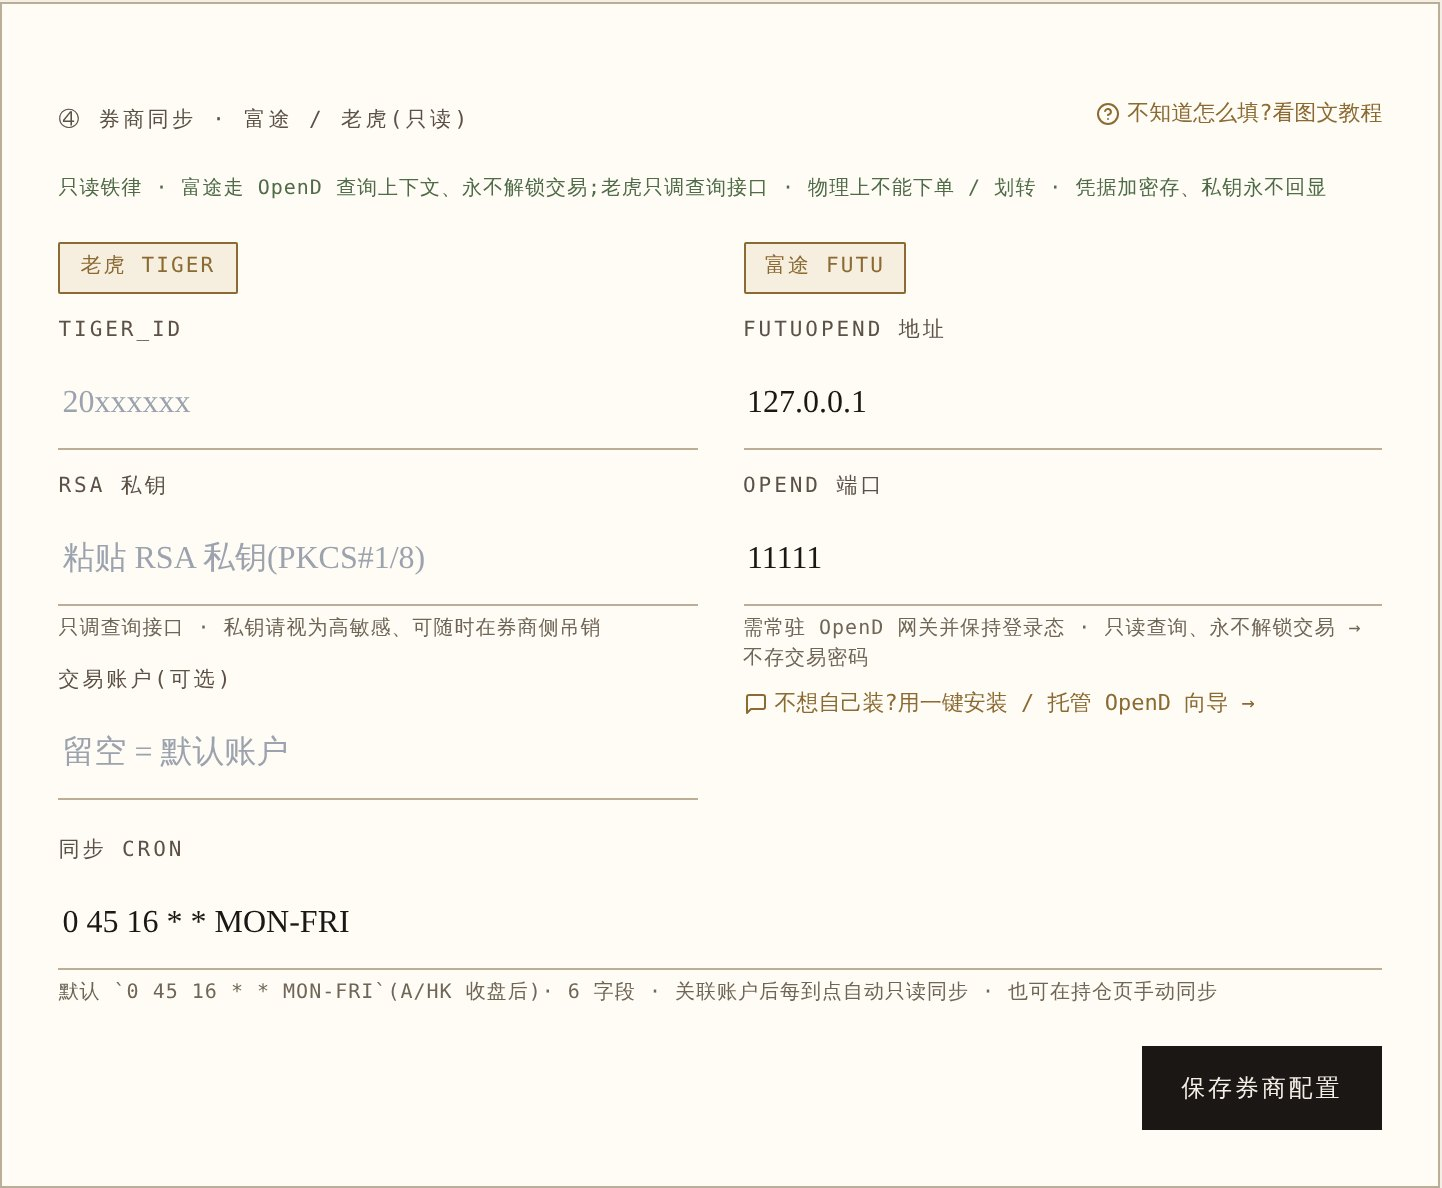
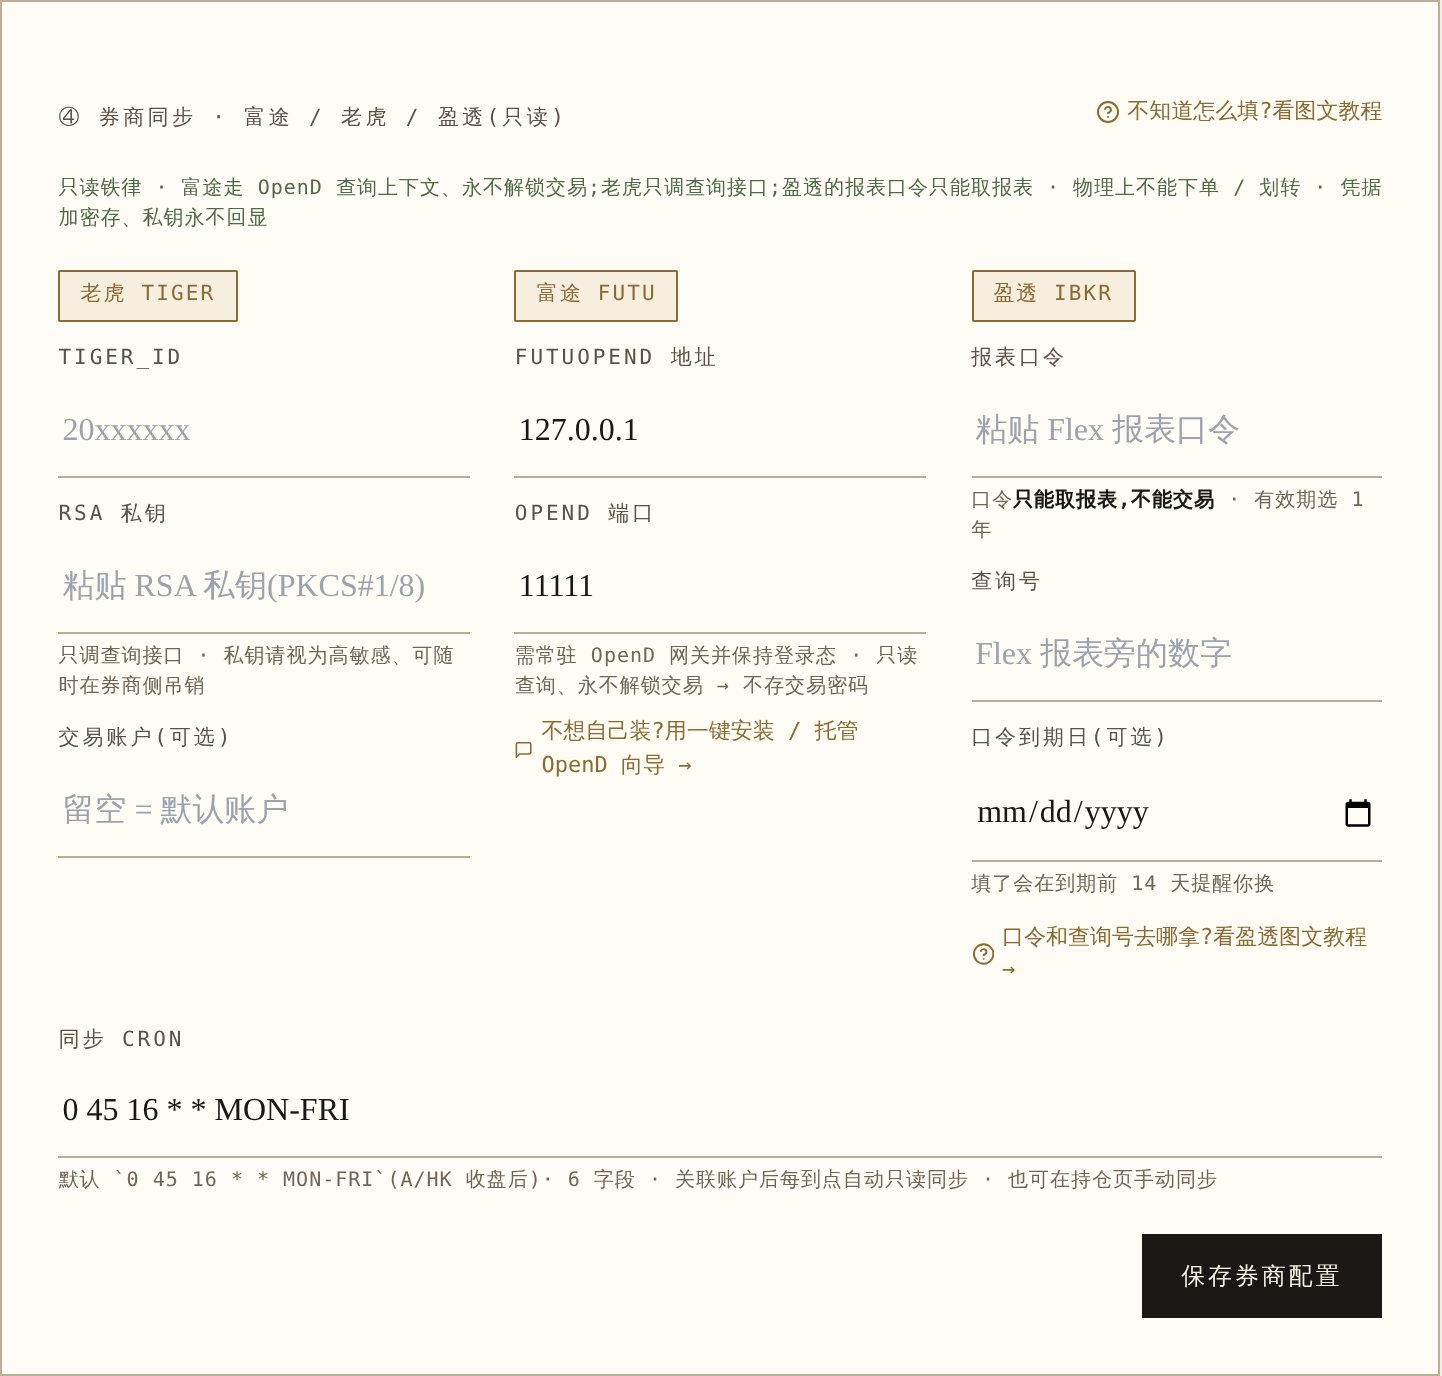
feat(v1.26) · 盈透的接入和界面与富途 / 老虎对齐(维护者 2026-09-25)
维护者:「IBKR 的接入和界面都应该和富途 / 老虎类似」。对照后改:
· 管理页:三家一家一列(药丸标题 + 竖排字段 + 一行说明 + 一条指路链接),撤掉只有盈透才有的
  折叠「在 IBKR 后台怎么配」—— 怎么拿口令只写在图文教程(链接直达 /help/broker-sync#ibkr)
· 只读铁律那一行、账户列表「券商」按钮提示、新建账户向导、填报页券商入口提示、手册 A2 正文与目录卡、
  平台下拉候选:凡是列举券商的地方都补上「盈透」
· 手册 A2 截图重拍(三家并排)
· 有意保留的不同写进 PRD §14:IBKR 账户是下拉(报表告诉我们有哪些账户),多一个口令到期日(一年一到期)

双端渲染:PC 三列同尺寸 206×359;手机竖排无横向溢出;指路链接落到教程盈透一节。

diff --git a/src/main/resources/templates/admin/integrations.html b/src/main/resources/templates/admin/integrations.html
@@ -119,7 +119,7 @@
       </div>
     </form>
 
-    <!-- ⑥ 券商只读同步 · v0.15 · 富途 / 老虎 -->
+    <!-- ⑥ 券商只读同步 · v0.15 · 富途 / 老虎 · v1.26 盈透 IBKR -->
     <form id="broker" th:action="@{/admin/integrations/broker}" method="post" class="bracket-card max-w-3xl space-y-5" style="scroll-margin-top:80px">
       <input type="hidden" th:name="${_csrf.parameterName}" th:value="${_csrf.token}"/>
       <div class="flex items-baseline justify-between">
@@ -128,10 +128,12 @@
           <svg width="12" height="12" viewBox="0 0 24 24" fill="none" stroke="currentColor" stroke-width="2" stroke-linecap="round" stroke-linejoin="round" aria-hidden="true"><circle cx="12" cy="12" r="10"/><path d="M9.09 9a3 3 0 0 1 5.83 1c0 2-3 3-3 3"/><line x1="12" y1="17" x2="12.01" y2="17"/></svg>不知道怎么填?看图文教程</a>
       </div>
       <p class="font-mono text-[10px] text-ink-subtle tracking-wider" style="color:var(--forest)">
-        只读铁律 · 富途走 OpenD 查询上下文、永不解锁交易;老虎只调查询接口 · 物理上不能下单 / 划转 · 凭据加密存、私钥永不回显
+        只读铁律 · 富途走 OpenD 查询上下文、永不解锁交易;老虎只调查询接口;盈透的报表口令只能取报表 · 物理上不能下单 / 划转 · 凭据加密存、私钥永不回显
       </p>
 
-      <div class="grid grid-cols-1 md:grid-cols-2 gap-6">
+      <!-- v1.26 · 三家同一种排法(维护者 2026-09-25:「IBKR 的接入和界面都应该和富途 / 老虎类似」):
+           一家一列,药丸标题 + 竖排字段 + 一行说明 + 一条指路链接;怎么拿凭据都在图文教程里,不在这里另起一套 -->
+      <div class="grid grid-cols-1 md:grid-cols-3 gap-6">
         <!-- 老虎 -->
         <div class="space-y-3">
           <div class="pill" style="background:rgba(180,138,58,.12);color:var(--brass-deep);border-color:var(--brass-deep)">老虎 Tiger</div>
@@ -165,42 +167,27 @@
             <svg width="12" height="12" viewBox="0 0 24 24" fill="none" stroke="currentColor" stroke-width="2" stroke-linecap="round" stroke-linejoin="round" aria-hidden="true"><path d="M21 15a2 2 0 0 1-2 2H7l-4 4V5a2 2 0 0 1 2-2h14a2 2 0 0 1 2 2z"/></svg>不想自己装?用一键安装 / 托管 OpenD 向导 →</a>
           </div>
         </div>
-      </div>
-
-      <!-- v1.26 · 盈透 IBKR · Flex 报表口令(issue #24)-->
-      <div class="space-y-3 border-t border-rule-soft pt-5">
-        <div class="flex items-baseline gap-3 flex-wrap">
+        <!-- 盈透 IBKR · v1.26 · issue #24 -->
+        <div class="space-y-3">
           <div class="pill" style="background:rgba(180,138,58,.12);color:var(--brass-deep);border-color:var(--brass-deep)">盈透 IBKR</div>
-          <span class="font-mono text-[10px] text-ink-subtle">Flex 报表 · 免网关 · 口令只能取报表,做不了交易</span>
-        </div>
-        <div>
-          <label class="field-label">报表口令</label>
-          <input class="field-input" type="password" name="ibkrToken" autocomplete="new-password"
-                 th:placeholder="${ibkrTokenConfigured} ? '已配置 ' + ${ibkrTokenMasked} + ' · 留空不修改' : '粘贴在 IBKR 后台生成的报表口令'"/>
-          <p class="font-mono text-[10px] text-ink-subtle mt-1 tracking-wider">它<b class="text-ink">只能取报表,不能交易</b> · 有效期请选 1 年 · 页面不回显</p>
-        </div>
-        <div class="grid grid-cols-1 md:grid-cols-2 gap-4">
+          <div>
+            <label class="field-label">报表口令</label>
+            <input class="field-input" type="password" name="ibkrToken" autocomplete="new-password"
+                   th:placeholder="${ibkrTokenConfigured} ? '已配置 ' + ${ibkrTokenMasked} + ' · 留空不修改' : '粘贴 Flex 报表口令'"/>
+            <p class="font-mono text-[10px] text-ink-subtle mt-1 tracking-wider">口令<b class="text-ink">只能取报表,不能交易</b> · 有效期选 1 年</p>
+          </div>
           <div>
             <label class="field-label">查询号</label>
-            <input class="field-input" name="ibkrQuery" th:value="${ibkrQuery}" inputmode="numeric" placeholder="如 1045872"/>
-            <p class="font-mono text-[10px] text-ink-subtle mt-1 tracking-wider">你在 IBKR 后台建的那份 Flex 报表旁边的数字</p>
+            <input class="field-input" name="ibkrQuery" th:value="${ibkrQuery}" inputmode="numeric" placeholder="Flex 报表旁的数字"/>
           </div>
           <div>
             <label class="field-label">口令到期日(可选)</label>
             <input class="field-input" type="date" name="ibkrExpires" th:value="${ibkrExpires}"/>
-            <p class="font-mono text-[10px] text-ink-subtle mt-1 tracking-wider">IBKR 不告诉我们口令哪天过期 · 填了才能在到期前 14 天提醒你换</p>
+            <p class="font-mono text-[10px] text-ink-subtle mt-1 tracking-wider">填了会在到期前 14 天提醒你换</p>
           </div>
+          <a th:href="@{/help/broker-sync} + '#ibkr'" class="inline-flex items-center gap-1 font-mono text-[11px] text-brass-deep underline hover:text-ink no-underline">
+            <svg width="12" height="12" viewBox="0 0 24 24" fill="none" stroke="currentColor" stroke-width="2" stroke-linecap="round" stroke-linejoin="round" aria-hidden="true"><circle cx="12" cy="12" r="10"/><path d="M9.09 9a3 3 0 0 1 5.83 1c0 2-3 3-3 3"/><line x1="12" y1="17" x2="12.01" y2="17"/></svg>口令和查询号去哪拿?看盈透图文教程 →</a>
         </div>
-        <details class="text-xs text-ink-soft">
-          <summary class="cursor-pointer font-mono text-[11px] text-brass-deep">在 IBKR 后台怎么配(约 10 分钟 · 一次)</summary>
-          <ol class="list-decimal pl-5 mt-2 space-y-1.5 leading-relaxed">
-            <li>登录 IBKR 网页后台,打开 <b class="font-mono">Performance &amp; Reports → Flex Queries</b>。</li>
-            <li>在 <b>Activity Flex Query</b> 那一栏点「+」新建:勾 <b class="font-mono">Open Positions</b> 和 <b class="font-mono">Cash Report</b> 两栏,格式选 <b class="font-mono">XML</b>,时段选 <b class="font-mono">Last Business Day</b>,保存。它旁边的数字就是<b>查询号</b>。</li>
-            <li>点 <b class="font-mono">Flex Web Service Configuration</b>(齿轮),勾选启用。</li>
-            <li>点「Generate New Token」:<b>有效期选 1 年</b>(默认只有 6 小时)。知道本服务器公网 IP 的话可以填进「Valid For IP Address」,口令就只能从这台服务器用。<span class="text-ink-subtle">重新生成会让旧口令立刻失效。</span></li>
-            <li>把口令和查询号粘到上面,保存,再点下方「测试盈透 IBKR 连接」。</li>
-          </ol>
-        </details>
       </div>
 
       <div>

diff --git a/src/main/resources/templates/help/how-to-use.html b/src/main/resources/templates/help/how-to-use.html
@@ -290,7 +290,7 @@
     <a class="toc-card" href="#a2">
       <span class="no">A2</span> <span class="badge-opt">选修</span>
       <span class="tt">券商自动同步</span>
-      <span class="dd">富途 / 老虎的只读同步:自动拉持仓与账户现金,不下单、不动钱。…</span>
+      <span class="dd">富途 / 老虎 / 盈透 IBKR 的只读同步:自动拉持仓与账户现金,不下单、不动钱。…</span>
     </a>
     <a class="toc-card" href="#a3">
       <span class="no">A3</span> <span class="badge-opt">选修</span>
@@ -820,15 +820,15 @@
   <span class="ch-water">A2</span>
   <div class="ch-hd"><span class="ch-no">A2</span><span class="badge-opt">选修</span></div>
   <h2 class="text-3xl font-medium mb-3">券商自动同步</h2>
-  <p class="text-ink-soft mb-3" style="max-width:700px;line-height:1.9">富途 / 老虎的<b class="text-ink">只读</b>同步:自动拉持仓与账户现金,不下单、不动钱。</p>
+  <p class="text-ink-soft mb-3" style="max-width:700px;line-height:1.9">富途 / 老虎 / 盈透 IBKR 的<b class="text-ink">只读</b>同步:自动拉持仓与账户现金,不下单、不动钱。盈透走 Flex 报表,口令本身只能取报表、做不了交易,一年换一次。</p>
   <a class="goto" th:href="@{/accounts}">
     <svg width="12" height="12" viewBox="0 0 24 24" fill="none" stroke="currentColor" stroke-width="2.2"
          stroke-linecap="round" stroke-linejoin="round"><path d="M5 12h14M13 6l6 6-6 6"/></svg>
     去账户页关联券商
   </a>
   <figure class="fig reveal">
-    <img th:src="@{/img/manual/a2-integrations.jpg}" alt="数据源接入页的「④ 券商同步」:老虎填 TIGER_ID 与 RSA 私钥,富途填 OpenD 地址与端口。只读,物理上不能下单或划转;私钥加密存、永不回显。" loading="lazy">
-    <figcaption>数据源接入页的「④ 券商同步」:老虎填 TIGER_ID 与 RSA 私钥,富途填 OpenD 地址与端口。<b>只读</b>,物理上不能下单或划转;私钥加密存、永不回显。</figcaption>
+    <img th:src="@{/img/manual/a2-integrations.jpg}" alt="数据源接入页的「④ 券商同步」:三家一家一列 —— 老虎填 TIGER_ID 与 RSA 私钥,富途填 OpenD 地址与端口,盈透填报表口令与查询号。只读,物理上不能下单或划转;密钥永不回显。" loading="lazy">
+    <figcaption>数据源接入页的「④ 券商同步」:三家一家一列 —— 老虎填 TIGER_ID 与 RSA 私钥,富途填 OpenD 地址与端口,盈透填报表口令与查询号(口令到期日可选,填了会提前提醒)。<b>只读</b>,物理上不能下单或划转;密钥永不回显。</figcaption>
   </figure>
   <div class="lesson reveal">
     <h4 class="font-display font-medium">模型是 1:1 <span class="where2">账户 → 券商</span></h4>

diff --git a/src/main/resources/templates/entry/_row.html b/src/main/resources/templates/entry/_row.html
@@ -90,12 +90,12 @@
           <svg width="12" height="12" viewBox="0 0 24 24" fill="none" stroke="currentColor" stroke-width="2" stroke-linecap="round" stroke-linejoin="round" aria-hidden="true"><rect x="3" y="3" width="18" height="18" rx="2"/><circle cx="8.5" cy="8.5" r="1.5"/><polyline points="21 15 16 10 5 21"/></svg>
           <span>AI 截图导入</span>
         </a>
-        <!-- 券商对接:直达本账户那条 1:1 关联的配置页(富途 / 老虎)。
+        <!-- 券商对接:直达本账户那条 1:1 关联的配置页(富途 / 老虎 / 盈透)。
              条件用 supportsHoldings(与 BrokerLinkController.requireHoldingAccount 同一判据),
              不再在模板里硬编码枚举列表 —— 那种写法加类型时必漏(见 AGENTS.md 枚举扫描护栏)。 -->
         <a th:href="@{|/accounts/${row.account.id}/broker|}"
            class="inline-flex items-center gap-1 px-2.5 py-1 rounded border border-rule bg-card text-ink-soft hover:border-brass-deep hover:text-brass-deep transition no-underline text-[11px] font-mono whitespace-nowrap flex-none"
-           title="券商对接 · 富途 / 老虎只读同步(本账户 1:1)">
+           title="券商对接 · 富途 / 老虎 / 盈透只读同步(本账户 1:1)">
           <svg width="12" height="12" viewBox="0 0 24 24" fill="none" stroke="currentColor" stroke-width="2" stroke-linecap="round" stroke-linejoin="round" aria-hidden="true"><path d="M21 12a9 9 0 1 1-9-9c2.5 0 4.8 1 6.4 2.6"/><path d="M21 3v5h-5"/></svg>
           <span>券商</span>
         </a>

diff --git a/src/main/resources/templates/accounts/index.html b/src/main/resources/templates/accounts/index.html
@@ -187,13 +187,13 @@
             </svg>
             <span>编辑</span>
           </a>
-          <!-- 券商同步:能力入口(通往富途/老虎只读对接的完整功能),按 docs/entry-points.md 必须一眼可见。
+          <!-- 券商同步:能力入口(通往富途 / 老虎 / 盈透只读对接的完整功能),按 docs/entry-points.md 必须一眼可见。
                v1.6 UED 批次5 曾把它收进下面的 ⋯ —— 那次是按「行内按钮太多」的视觉密度一刀切收纳的,
                但 ⋯ 只该放低频维护动作(归档/导出/恢复);能力入口进了 ⋯ 就等于没有入口(用户实际报障)。
                只有 STOCK/CRYPTO/METAL 账户显示,21 行里约 6 行,密度代价很小。 -->
           <a th:if="${T(com.family.finance.service.stock.StockHoldingService).supportsHoldings(row.account.type)}"
              th:href="@{/accounts/{id}/broker(id=${row.account.id})}"
-             class="btn-ghost no-underline inline-flex items-center gap-1" title="券商只读同步 · 富途 / 老虎(关联 · 测试 · 同步)">
+             class="btn-ghost no-underline inline-flex items-center gap-1" title="券商只读同步 · 富途 / 老虎 / 盈透(关联 · 测试 · 同步)">
             <svg width="13" height="13" viewBox="0 0 24 24" fill="none" stroke="currentColor" stroke-width="2" stroke-linecap="round" stroke-linejoin="round" aria-hidden="true">
               <path d="M21 12a9 9 0 1 1-9-9c2.5 0 4.8 1 6.4 2.6"/><path d="M21 3v5h-5"/>
             </svg>

diff --git a/src/main/resources/templates/accounts/_template-wizard.html b/src/main/resources/templates/accounts/_template-wizard.html
@@ -52,7 +52,7 @@
         <div id="brokerSyncHint" class="hidden md:col-span-2 paper-card p-3 bg-card-soft" style="border-left:4px solid var(--brass-deep)">
           <div class="flex items-start gap-2 text-sm text-ink-soft">
             <svg width="16" height="16" viewBox="0 0 24 24" fill="none" stroke="currentColor" stroke-width="2" stroke-linecap="round" stroke-linejoin="round" class="text-brass-deep shrink-0 mt-0.5" aria-hidden="true"><path d="M21 12a9 9 0 1 1-9-9c2.5 0 4.8 1 6.4 2.6"/><path d="M21 3v5h-5"/></svg>
-            <span>证券账户支持<b class="text-ink">关联富途 / 老虎自动同步</b>(只读拉持仓 + 各币种现金)。创建后到该账户「持仓 → 券商自动同步」开启。</span>
+            <span>证券账户支持<b class="text-ink">关联富途 / 老虎 / 盈透自动同步</b>(只读拉持仓 + 各币种现金)。创建后到该账户「持仓 → 券商自动同步」开启。</span>
           </div>
         </div>
         <!-- v0.17 · 保险账户提示 + 子类型(仅 INSURANCE 显示,JS 切换)-->

diff --git a/src/main/resources/templates/lens/tags.html b/src/main/resources/templates/lens/tags.html
@@ -295,7 +295,7 @@
       </div>
       <datalist id="platformList">
         <option value="招商银行"></option><option value="工商银行"></option><option value="建设银行"></option><option value="中国银行"></option>
-        <option value="支付宝 · 蚂蚁财富"></option><option value="微信 · 理财通"></option><option value="富途证券"></option><option value="老虎证券"></option>
+        <option value="支付宝 · 蚂蚁财富"></option><option value="微信 · 理财通"></option><option value="富途证券"></option><option value="老虎证券"></option><option value="盈透证券"></option>
         <option value="天天基金"></option><option value="京东金融"></option><option value="中国人寿"></option><option value="平安保险"></option><option value="泰康保险"></option>
       </datalist>
     </section>

diff --git a/src/main/java/com/family/finance/web/account/AccountController.java b/src/main/java/com/family/finance/web/account/AccountController.java
@@ -267,7 +267,7 @@ public class AccountController {
     /** v1.1 · 平台/机构常用建议(datalist · 自由文本可另填) */
     private static final String[] PLATFORM_SUGGESTIONS = {
             "招商银行", "工商银行", "建设银行", "中国银行", "支付宝 · 蚂蚁财富", "微信 · 理财通",
-            "富途证券", "老虎证券", "华泰证券", "中信证券", "天天基金", "京东金融",
+            "富途证券", "老虎证券", "盈透证券", "华泰证券", "中信证券", "天天基金", "京东金融",
             "中国人寿", "平安保险", "泰康保险", "币安", "欧易", "其他"
     };
 

diff --git a/src/main/java/com/family/finance/web/admin/IntegrationsController.java b/src/main/java/com/family/finance/web/admin/IntegrationsController.java
@@ -146,7 +146,7 @@ public class IntegrationsController {
     }
 
     /**
-     * ⑥ 券商只读同步 · 老虎(tiger_id + RSA 私钥 + 账户)+ 富途(OpenD host/port)+ 同步 cron。
+     * ⑥ 券商只读同步 · 老虎(tiger_id + RSA 私钥 + 账户)+ 富途(OpenD host/port)+ 盈透(报表口令 + 查询号 + 到期日)+ 同步 cron。
      *
      * <p>私密红线:RSA 私钥留空 = 保原值、永不回显、audit 只记"已配/未配"不记明文;
      * 只读铁律:此处不存交易密码、不申请任何写权限。</p>

diff --git a/src/main/java/com/family/finance/web/help/HelpController.java b/src/main/java/com/family/finance/web/help/HelpController.java
@@ -13,7 +13,7 @@ import org.springframework.web.bind.annotation.GetMapping;
  *
  * <p>路由:</p>
  * <ul>
- *   <li>GET /help/broker-sync · 券商同步凭据获取图文向导(富途 / 老虎)</li>
+ *   <li>GET /help/broker-sync · 券商同步凭据获取图文向导(富途 / 老虎 / 盈透)</li>
  * </ul>
  */
 @Controller

diff --git a/prd/v1.26.md b/prd/v1.26.md
@@ -259,4 +259,10 @@
 - **没有真实报表**:解析按官方字段参考与开源解析库记录的形状写,单测与 e2e 用合成样例(`src/test/resources/ibkr/`,账号价格全部编造)。拿到真实口令后按 TDD §零 补一次实测,样例脱敏后替换。
 - **e2e 不打真实 IBKR**:取数基址是一个页面上不露的家庭配置键,只接受 `*.interactivebrokers.com` 的 HTTPS 或本机回环;flow `27-ibkr-flex` 在本机起桩回放两步应答。
 - **顺带修了一个 v1.17.3 起的老问题**:`BrokerSyncService.sync` 整个是 `@Transactional`,失败时先记失败再抛异常 —— 事务一回滚,失败记录也没了。从页面点「立即同步」失败后,卡片和账户列表仍显示上一次成功(v1.17.3 的「失败要落库」只在定时任务那条路上生效,那条路是类内自调用、没有事务)。富途 / 老虎同样受影响。现在对账 + 记成功在一个事务里,失败记录在事务之外。e2e flow 27 查库真值抓到。
+- **2026-09-25 维护者:「IBKR 的接入和界面都应该和富途 / 老虎类似」**。对照后改了两处:
+  ① 管理页原来把盈透放在富途 / 老虎下面单独一大块、还自带一段折叠的「在 IBKR 后台怎么配」—— 富途 / 老虎都没有这种写法。
+  现在三家**一家一列**(药丸标题 + 竖排字段 + 一行说明 + 一条指路链接),怎么拿口令只在图文教程里写(`/help/broker-sync#ibkr`),FR-752 的「折叠说明」撤掉;
+  ② 所有列举券商的地方(账户列表按钮提示、新建账户向导、填报页券商入口提示、手册 A2 正文与目录卡、平台下拉候选)都补上「盈透」,手册 A2 的截图重拍。
+  **有意保留的不同**:关联页里 IBKR 的账户是**下拉**(报表里找到的账户,打码显示),富途 / 老虎是文本框 —— IBKR 的报表会告诉我们有哪些账户,富途 / 老虎没有这一步;
+  IBKR 多一个「口令到期日」,因为它的口令一年一到期,另外两家没有这个问题。
 
